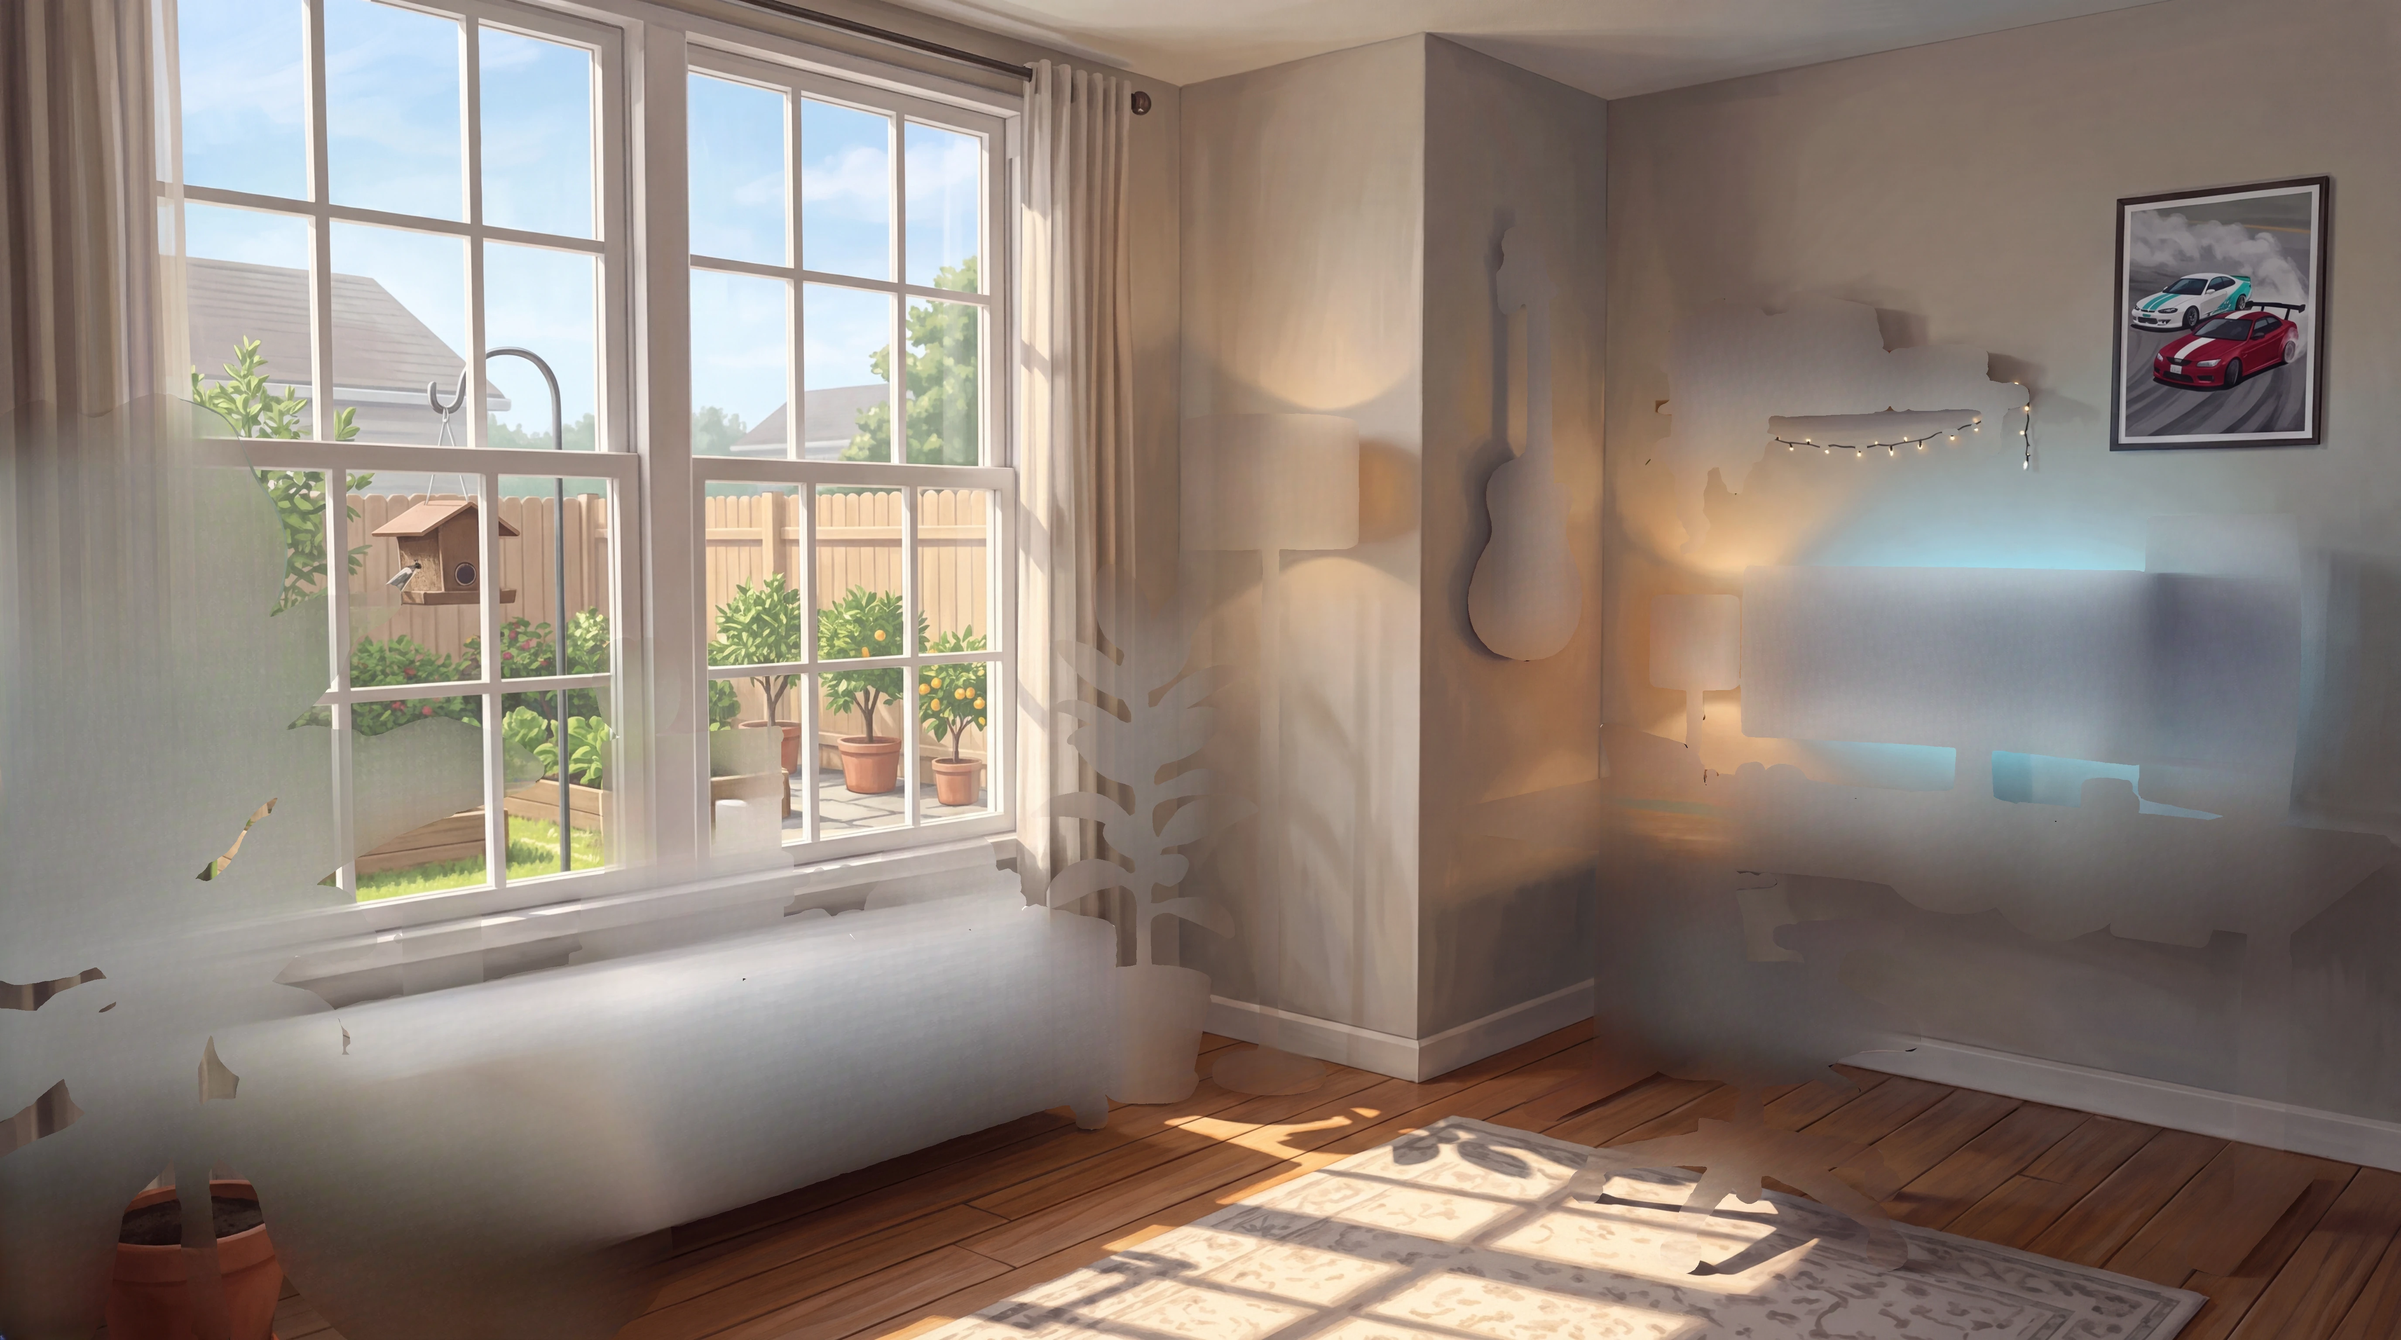
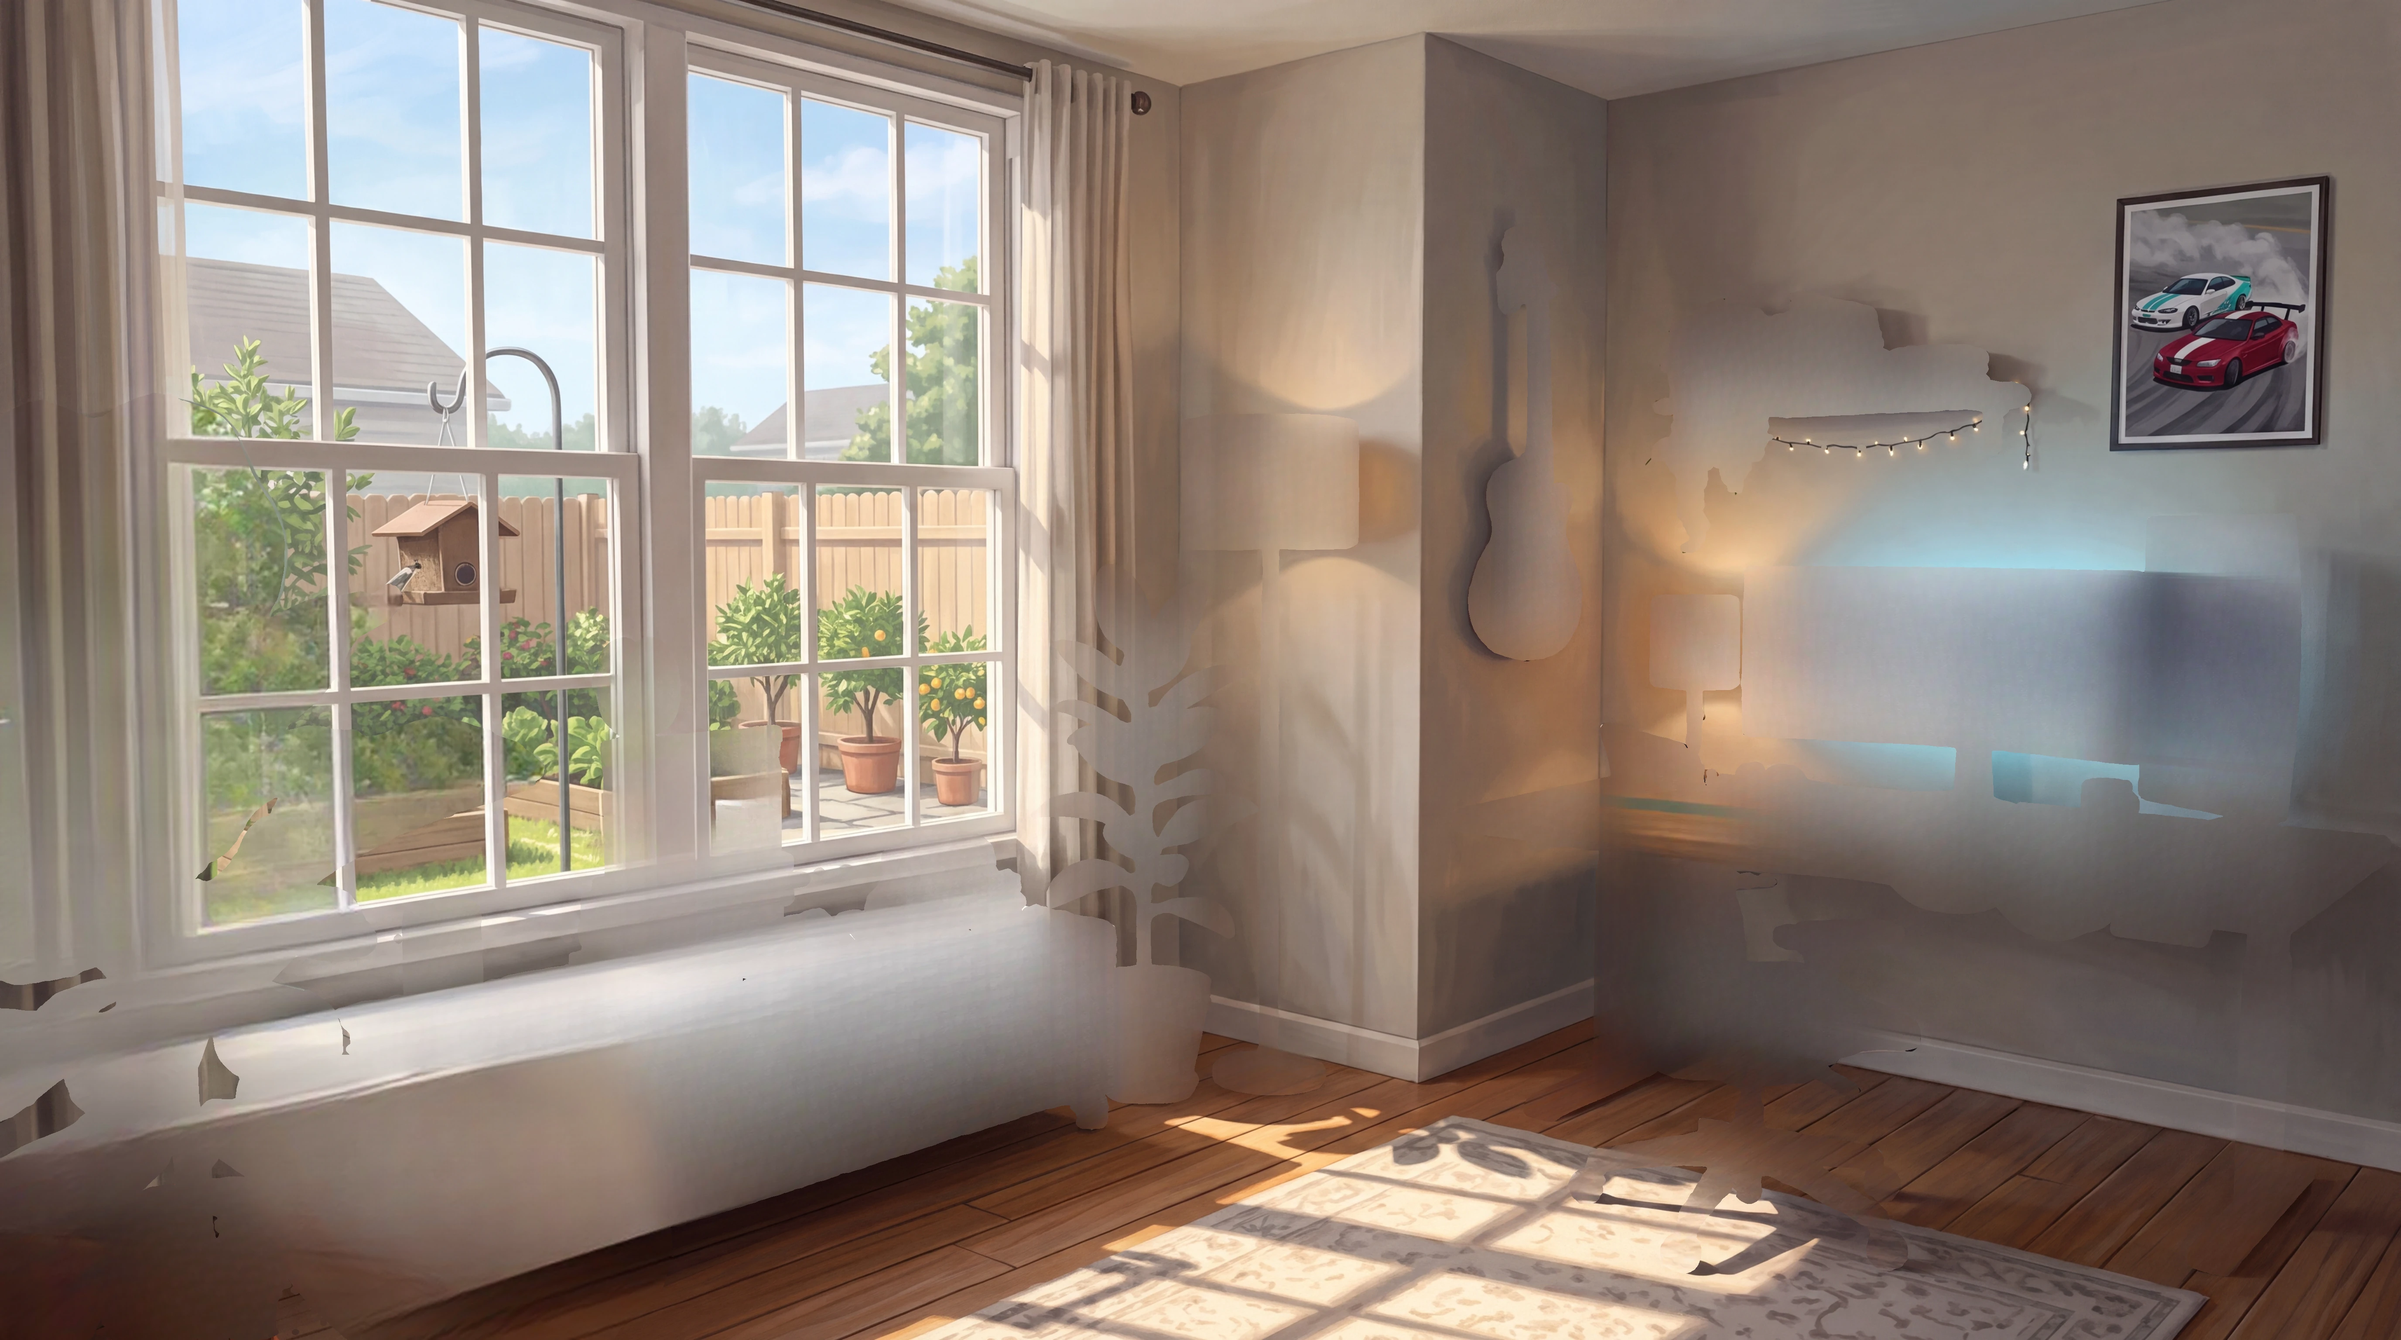
Improved fig inpainting

diff --git a/tools/inpaint.py b/tools/inpaint.py
@@ -121,7 +121,7 @@ def matte(bgr, under, mask, band_out, trust):
     return alpha, out.astype(np.uint8)
 
 
-def lama_fill(lama, bgr, hole, max_side=2048):
+def lama_fill(lama, bgr, hole, max_side=2048, reach=None):
     """Inpaint `hole` and composite, so pixels outside the hole are bit-identical.
 
     The model returns a whole frame and re-encodes all of it. Registration against the
@@ -130,17 +130,49 @@ def lama_fill(lama, bgr, hole, max_side=2048):
 
     `max_side` caps what the model sees. LaMa re-encodes the entire frame, so cost scales
     with the master, not with the hole: at 5504x3072 it was killed by the OS (exit 137)
-    before writing anything. Downscaling costs little here for two reasons. LaMa is the
-    *fallback*, kept so the chain always runs unattended - every large hole gets a made
-    fill instead (see A-empty in PROMPTS.md), and what is left for LaMa is small flat
-    patches of wall, desk and cabinet top, which carry no high-frequency detail to lose.
-    And only the model's output is resampled: the hole mask stays full resolution, so the
-    composite boundary is still exact and everything outside it is still bit-identical.
+    before writing anything. And only the model's output is resampled: the hole mask stays
+    full resolution, so the composite boundary is still exact and everything outside it is
+    still bit-identical.
+
+    `reach` caps something else, and it is the parameter that decides whether a fill comes
+    back as a picture or as a wash. **What LaMa can do is bounded by how far the deepest
+    hole pixel is from real paint, measured in the pixels the MODEL sees** - not in plate
+    px, and not as a fraction of the frame. Past roughly 300 of them it stops continuing
+    structure and returns a smooth average of the border; the wash is not a failure of
+    capacity, it is what the model has left when nothing in range tells it what was there.
+
+    Measured on this master, filling the fig at a range of scales - detail inside the hole
+    as a fraction of the real paint around it:
+
+        model px deep   675    337    253    169    127
+        detail ratio    0.30   0.34   0.37   0.40   0.39
+
+    Two things follow, and both are counter-intuitive enough to be worth stating.
+
+    *A wider mask makes it worse, not better.* Dilating the fig's mask to 200px takes the
+    hole from 675 model px to 1021 and the detail from 7.12 to 6.67. Whatever a bigger
+    hole buys in context it loses twice over in depth, so `--halo` is not a lever on this
+    and neither is a hand-painted brush mask (tested: 982 px deep, 6.63).
+
+    *The crop makes it worse too.* lama_peel() crops for resolution, which is right for
+    small objects and exactly backwards for large ones: the same fig hole is 321 model px
+    when the whole 5504px frame is handed over at max_side, and 675 when cropped to the
+    object. Cropping raised the effective resolution past what the hole could carry. That
+    is the whole of why the shell used to wash out behind the fig while the guitar beside
+    it came back clean - not the mask, not the model, not the amount of context.
+
+    So the scale is whichever of the two caps binds harder. Shallow holes are untouched and
+    keep native resolution; only a hole deep enough to defeat the model is downsampled, and
+    only as far as it has to be. `reach` is in model px, so unlike --margin/--halo it does
+    NOT scale with the plate: it is a property of LaMa, not of this room.
     """
     from PIL import Image
 
     h, w = bgr.shape[:2]
     scale = min(1.0, max_side / max(h, w))
+    if reach:
+        deep = cv2.distanceTransform((hole > 0).astype(np.uint8), cv2.DIST_L2, 5).max()
+        scale = min(scale, reach / max(1.0, float(deep)))
     if scale < 1.0:
         sw, sh = int(round(w * scale)), int(round(h * scale))
         small = cv2.resize(bgr, (sw, sh), interpolation=cv2.INTER_AREA)
@@ -223,7 +255,7 @@ def anchor_to_master(bgr, fill, hole, ring=64, solve_scale=0.25):
 
 
 
-def lama_peel(lama, bgr, jobs, context=384, max_side=2048):
+def lama_peel(lama, bgr, jobs, context=384, max_side=2048, reach=None):
     """Remove the objects one at a time, nearest first, instead of all at once.
 
     LaMa fills a hole from what surrounds it, so the only thing that matters is how far
@@ -246,6 +278,19 @@ def lama_peel(lama, bgr, jobs, context=384, max_side=2048):
     same cap is a mild downsample or none at all, so small objects fill at native
     resolution. Cost drops with it: the model re-encodes the crop, not the master.
 
+    That is right for a small object and backwards for a large one, which is why the crop
+    is paired with `reach`. Cropping raises the effective resolution, and raising the
+    resolution of a *deep* hole is the one thing that turns a fill into a wash: the fig's
+    hole is 321 model px when the whole frame goes in at `max_side` and 675 when cropped
+    to the object. `lama_fill`'s reach cap gives the depth back whatever the crop took, so
+    the crop keeps buying resolution for the objects that can use it and stops charging it
+    to the objects that cannot. See lama_fill() for the measurements.
+
+    `context` is deliberately NOT the fix for a deep hole and was measured not to be: 384px
+    of surroundings, 1200px, and the entire frame all return the same wash (detail ratio
+    0.30 / 0.30 / 0.31). Distance from real paint is a property of the hole's own shape, so
+    no amount of room around it changes the number that matters.
+
     `jobs` is (name, hole) in the order to remove them. Composition is `lama_fill`'s, so
     every pass still takes only its own masked pixels and everything else stays exact.
     """
@@ -257,11 +302,17 @@ def lama_peel(lama, bgr, jobs, context=384, max_side=2048):
         y0, y1 = max(0, ys.min() - context), min(work.shape[0], ys.max() + 1 + context)
         x0, x1 = max(0, xs.min() - context), min(work.shape[1], xs.max() + 1 + context)
         crop, hc = work[y0:y1, x0:x1], h[y0:y1, x0:x1]
+        deep = cv2.distanceTransform((hc > 0).astype(np.uint8), cv2.DIST_L2, 5).max()
         scale = min(1.0, max_side / max(crop.shape[:2]))
+        if reach:
+            scale = min(scale, reach / max(1.0, float(deep)))
+        # The depth in model px is the number that predicts the result, so log that and
+        # not just the scale - a run that washes out is diagnosable from the log alone.
         print(f"      {name:<14} {crop.shape[1]}x{crop.shape[0]} crop"
               f"{'' if scale == 1.0 else f' at {scale:.2f}x'}, "
-              f"hole {100.0 * (hc > 0).mean():.0f}% of it")
-        work[y0:y1, x0:x1] = lama_fill(lama, crop, hc, max_side=max_side)
+              f"hole {100.0 * (hc > 0).mean():.0f}% of it, "
+              f"{deep * scale:.0f} model px deep")
+        work[y0:y1, x0:x1] = lama_fill(lama, crop, hc, max_side=max_side, reach=reach)
     return work
 
 
@@ -308,6 +359,13 @@ def main() -> None:
                          "stretches the last visible texels across the whole gap. Pushed "
                          "out past the feather, the cliff lands where alpha is zero and "
                          "every stretched fragment is discarded.")
+    ap.add_argument("--fill-reach", type=int, default=220,
+                    help="px, IN THE PIXELS THE MODEL SEES, that the deepest point of a "
+                         "hole may sit from real paint. A crop is downsampled until its "
+                         "hole fits, because past ~300 LaMa stops continuing structure "
+                         "and returns a smooth wash. Does NOT scale with the plate - it "
+                         "is a property of the model, not of this room. 0 disables it. "
+                         "See lama_fill() for the measurements.")
     ap.add_argument("--device", default="cpu", choices=["cpu", "cuda", "mps"])
     ap.add_argument("--fill-dir", type=Path,
                     help="look here for {prefix}-layer{N}-fill.png - a hand-made fill for "
@@ -358,7 +416,7 @@ def main() -> None:
         args.feather = 6
     print(f"plate {bgr.shape[1]}x{bgr.shape[0]} = {k:.2f}x the {REF_W}px reference   "
           f"margin {args.margin}  feather {args.feather}  halo {args.halo}  "
-          f"depth-pad {args.depth_pad}")
+          f"depth-pad {args.depth_pad}  fill-reach {args.fill_reach}")
 
     layer_paths = sorted(args.masks.glob("_layer*.png"))
     if not layer_paths:
@@ -465,14 +523,15 @@ def main() -> None:
                 for k in range(n - 1, r, -1):
                     for name, om in sorted(by_layer.get(k, []), key=lambda t: t[1].sum()):
                         jobs.append((name, cv2.dilate(om.astype(np.uint8), ring) * 255))
-                work = lama_peel(get_lama(), bgr, jobs) if jobs else bgr
+                work = (lama_peel(get_lama(), bgr, jobs, reach=args.fill_reach)
+                        if jobs else bgr)
                 done = np.zeros(depth.shape, bool)
                 for _, h in jobs:
                     done |= h > 0
                 rest = ((hole > 0) & ~done).astype(np.uint8) * 255
                 if rest.any():
                     print(f"      {'leftover':<14} {100.0 * (rest > 0).mean():.1f}% of frame")
-                    work = lama_fill(get_lama(), work, rest)
+                    work = lama_fill(get_lama(), work, rest, reach=args.fill_reach)
                 color_r = np.where(keep[..., None], work, bgr)
                 source = f"lama, {len(jobs)} objects one at a time"
             # Depth, unlike colour, owes nothing to the at-rest frame: at the reference

diff --git a/docs/PIPELINE.md b/docs/PIPELINE.md
@@ -339,6 +339,45 @@ Pillow version that will not build on Python 3.13; it also ships a web server an
 zoo we have no use for. LaMa is free, local, deterministic and strongest at texture
 continuation, which keeps the whole chain reproducible from the master by one command.
 
+**What LaMa can do is bounded by one number: how deep the hole is _in the pixels the model
+sees_.** Not in plate px, not as a share of the frame. Past roughly 300 of them it stops
+continuing structure and averages the border instead — the wash. Measured, filling the fig
+at a range of scales, as detail inside the hole over the real paint around it:
+
+| model px deep | 675 | 337 | 253 | 169 | 127 |
+| ------------- | ---- | ---- | ---- | ---- | ---- |
+| detail ratio  | 0.30 | 0.34 | 0.37 | 0.40 | 0.39 |
+
+So `--fill-reach` (220) downsamples a crop until its hole fits, and shallow holes keep
+native resolution. Three things follow, and every one of them is the opposite of the
+obvious move:
+
+- **Context is not the lever.** 384px of surroundings, 1200px, and the whole frame all
+  return the same wash — 0.30 / 0.30 / 0.31. Distance from real paint is a property of the
+  hole's own shape, and no amount of room around it changes that number.
+- **A wider mask makes it worse.** Dilating the fig's mask by 200px takes the hole from
+  675 model px to 1021 and the detail from 7.12 to 6.67; a hand-painted brush blob, the
+  loose shape a person actually draws, lands at 982 and 6.63. Whatever a bigger hole buys
+  in context it loses twice over in depth. `--halo` is not a lever on this either.
+- **The crop was half the problem.** `lama_peel` crops for resolution, which is right for
+  a small object and backwards for a large one: the same fig hole is 321 model px when the
+  whole 5504px frame goes in at `max_side`, and **675 cropped to the object**. Cropping
+  raised the effective resolution past what the hole could carry. That, not the mask and
+  not the model, is why the shell used to wash out behind the fig while the guitar beside
+  it came back clean — and why a browser demo, which never zooms in, beat it.
+
+**Peeling is still load-bearing, and so is its order.** The reach cap does not replace it;
+they fix different halves. With the cap already on, detail across the whole filled area:
+
+| whole hole at once | nearest layer first | farthest layer first |
+| ------------------ | ------------------- | -------------------- |
+| 5.72               | **7.70**            | 6.71                 |
+
+Nearest first is right because it is the order the room uncovers, and reversing it bleeds
+foreground colour into the background — take the fig off last and its green ends up in the
+floor behind it. Within a layer, smallest-first and largest-first are indistinguishable
+(7.70 vs 7.73), so the sort there is not worth defending.
+
 **Depth → interpolation, never a generator.** LaMa is trained on natural images, so depth
 is off-distribution and it can hallucinate texture into what must be a smooth gradient.
 Depth behind an object is plain floor or wall.

diff --git a/CLAUDE.md b/CLAUDE.md
@@ -114,6 +114,18 @@ These were argued through and settled. See docs/PLAN.md for the reasoning.
   choice of model, is what makes registration structurally unbreakable. *Which* inpainter
   fills the hole is deliberately open. Stage 5 emits a hole mask every run and reads a
   hand-made fill back through `--fill-dir`.
+- Fixing a washed-out fill by giving the inpainter *more*. More context around the crop
+  (384px → 1200px → the whole frame) leaves the detail ratio at 0.30/0.30/0.31, and a
+  wider mask — `--halo`, or a loose hand-painted brush shape — makes it measurably worse,
+  because dilating a hole deepens it. The only thing that moves it is `--fill-reach`:
+  fewer *model* pixels between the hole's centre and real paint. A browser LaMa demo beats
+  the local one for exactly this reason and no other.
+- Peeling objects off in any order but nearest-first, or dropping the peel now that the
+  reach cap exists. Both were measured and both cost: whole hole at once 5.72, farthest
+  first 6.71, nearest first 7.70. Reversing the order bleeds the fig's green into the
+  floor behind it. Sorting *within* a layer is free either way and is not worth arguing.
+- Progressive band-peeling of a single large hole — fill the outer ring, composite, work
+  inward. It regrows the plant: each band feeds leaf-adjacent colour to the next.
 - Handing an inpainter the whole hole at once. It faces 47% of the frame with half of it
   >128px from real paint, and answers with a wash. **Peel the objects off one at a time,
   nearest layer first, each in a crop with real room around it** — the room corner, the

diff --git a/docs/SCENE.md b/docs/SCENE.md
@@ -268,6 +268,12 @@ band beside each silhouette; the purple area is never revealed and its fill does
 matter. Do not widen `--halo` to chase soft object-shaped tone on a wall: that is the
 object's cast shadow and it belongs there.
 
+If a fill comes back as a smooth wash, read the `model px deep` figure the peel logs for
+that object before touching anything else — that number, and not the mask, is what decides
+whether LaMa returns a picture. `--fill-reach` (220) holds it there automatically; a wash
+above it means the cap is off or set too high, and widening the mask or the crop will make
+it worse, not better. See PIPELINE.md for the measurements.
+
 ```sh
 # prompts EMPTY-0 (empty room) / EMPTY-1 (bare surfaces) in PROMPTS.md - attach $S.jpg and
 # the hole mask, and EDIT: same camera, same lighting, same exposure, same pixel size.
